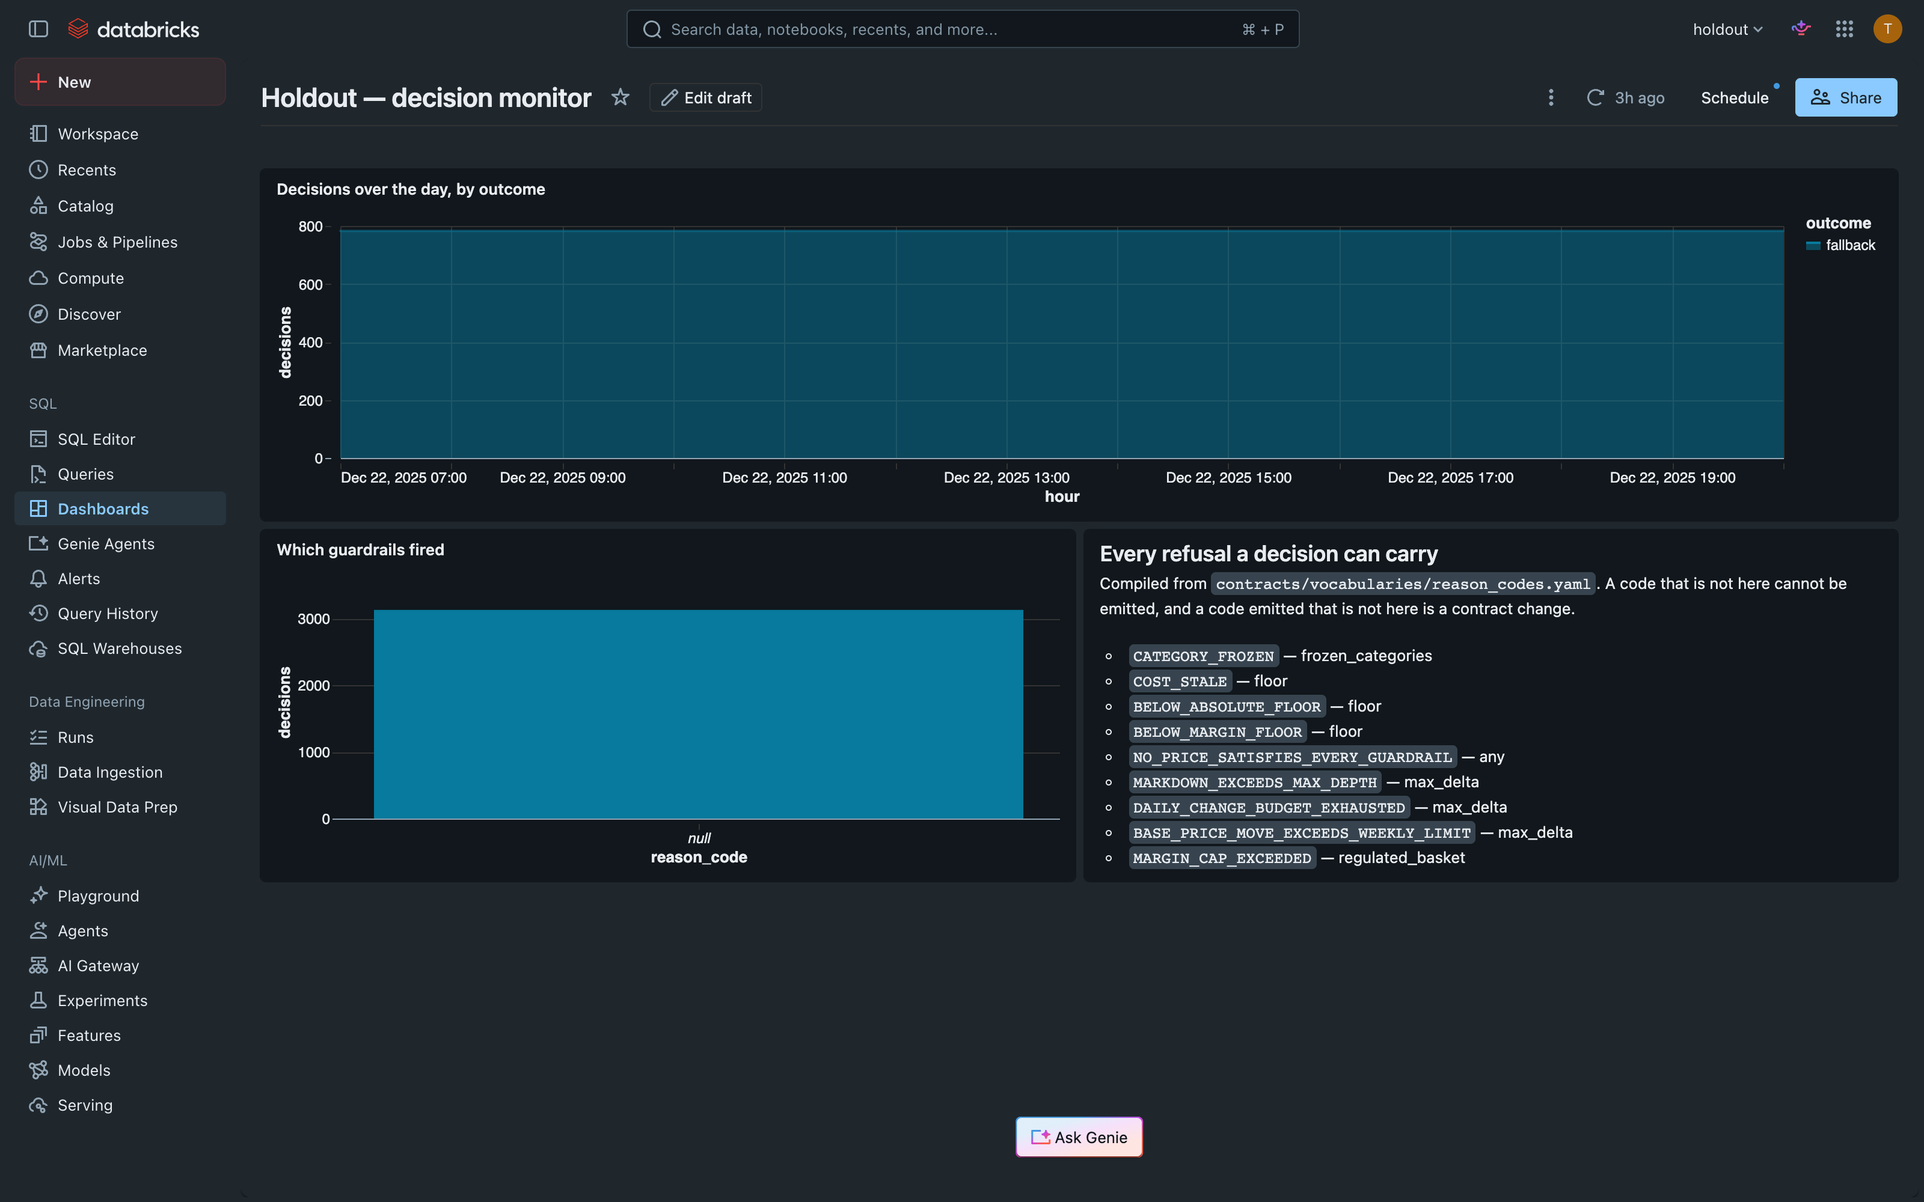
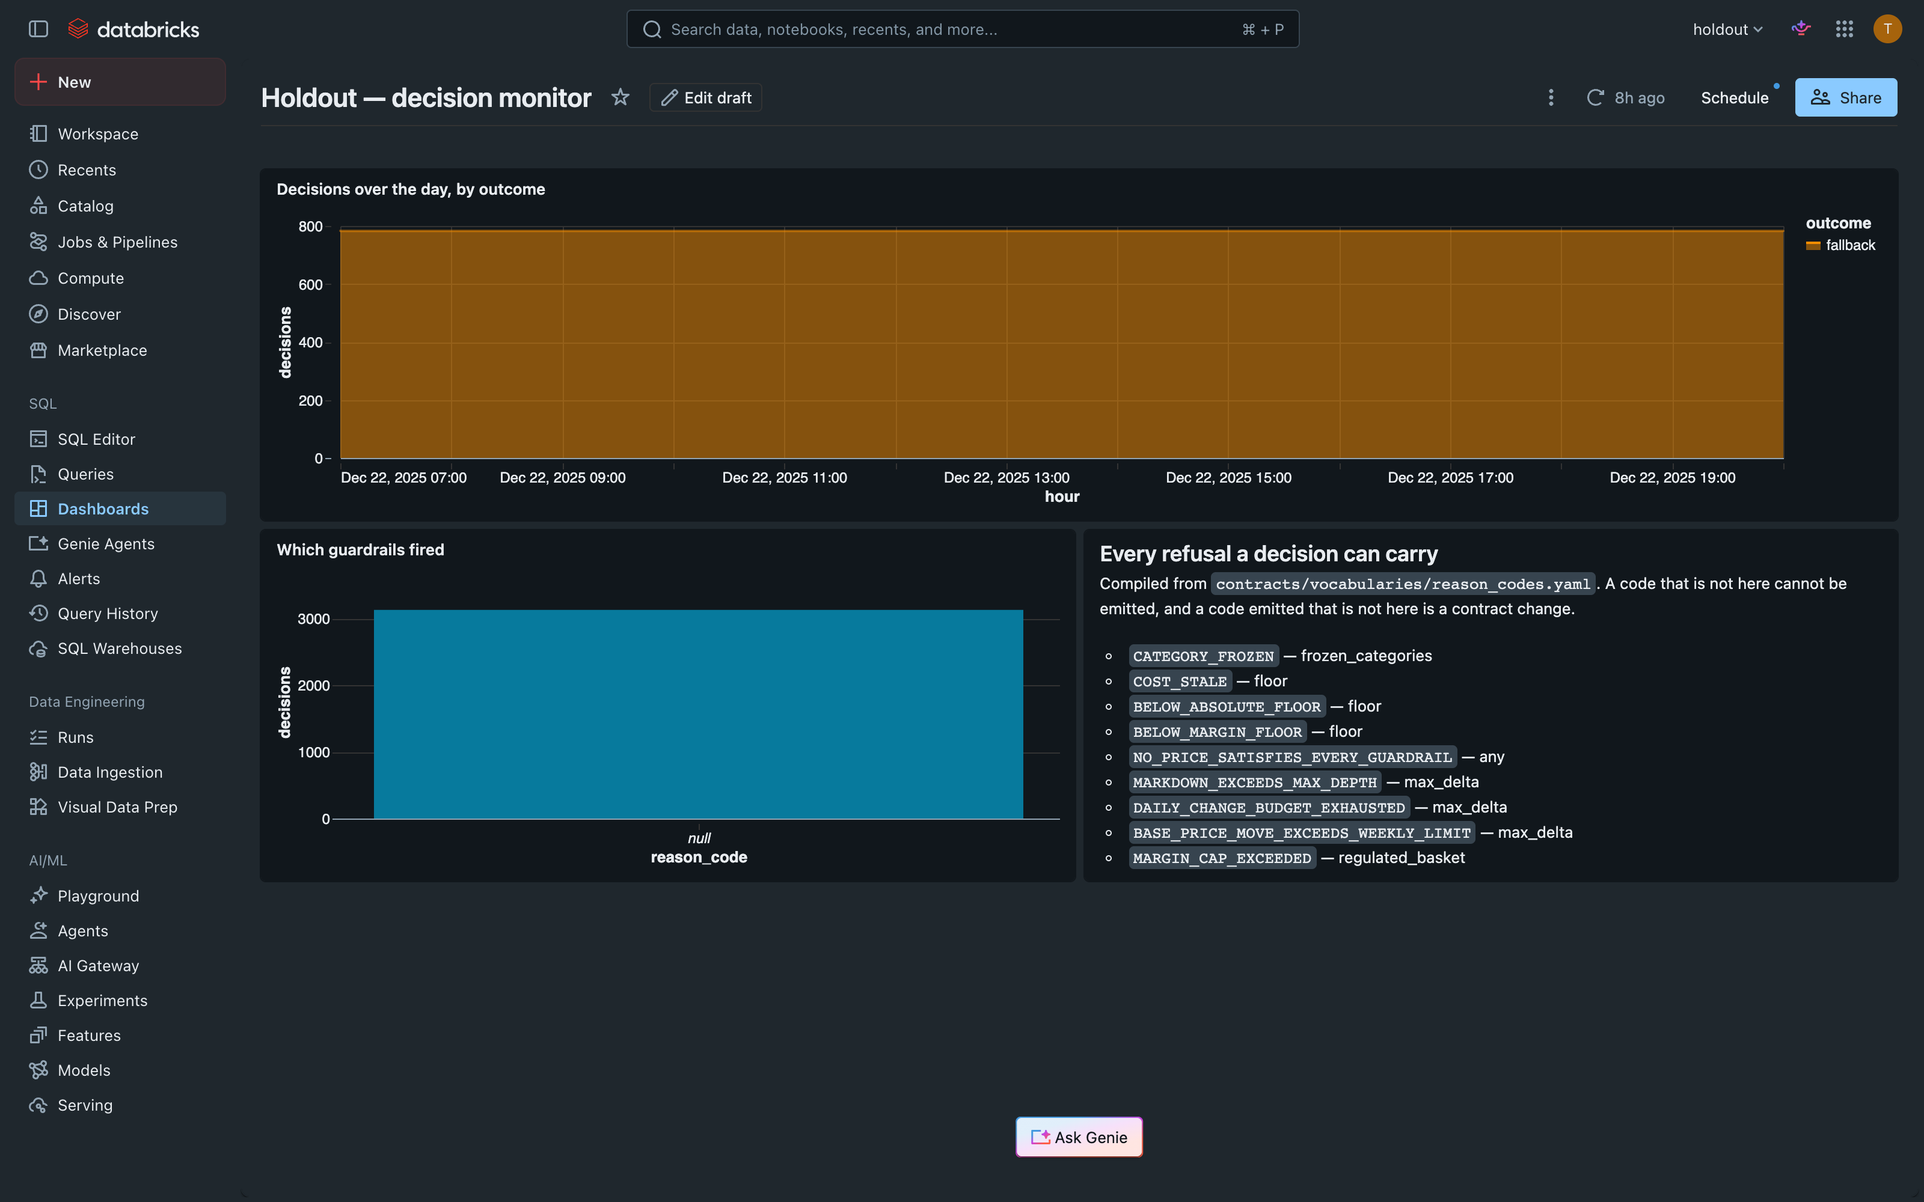
docs: the estate, photographed — thirty-two console frames beside the claims they prove
A fifth cycle, run to be seen: the readout dashboard with the number and the refusal in one
column, the decision monitor's one amber band, the door on the table and tried by a person, the
catalog's own lineage, the demo notebook executed cell by cell, Bedrock's 152 invocations, the
deploy role's trust and its Deny, the reaper and the fifty-six daily drops, CI and a dispatch as
the forge ran them. Every frame taken by a headless browser and masked; the S3 list is today's,
after destroy all left the survivor list and nothing else.

Changed region(s): [[0.1562, 0.186, 0.9375, 0.403]]

diff --git a/README.md b/README.md
@@ -50,16 +50,16 @@ is a build failure.** That is the project in one sentence.
 ## Status
 
 **Everything in this repository is proved locally, and the estate has been built, driven and torn
-down through CI four times.** The last full cycle ran on 2026-09-13, from `main`, every dispatch
+down through CI five times.** The last full cycle ran on 2026-09-15, from `main`, every dispatch
 verified against the account afterwards:
 
 | step | run | what it did |
 |---|---|---|
-| `deploy` | [34756057061](https://github.com/theofanis-tsakanikas/holdout/actions/runs/34756057061) | four Terraform layers, 135 resources, in 5 minutes |
-| `backfill` | [34756473276](https://github.com/theofanis-tsakanikas/holdout/actions/runs/34756473276) | 8 weeks of history, silver and gold, a model trained, gated, registered and served |
-| `run` | [34758751989](https://github.com/theofanis-tsakanikas/holdout/actions/runs/34758751989) | a live day with late and duplicated deliveries; both experiments read out; the endpoint asked which version answered |
-| `inspect` | [34759485334](https://github.com/theofanis-tsakanikas/holdout/actions/runs/34759485334) | every table counted, both dashboards' datasets executed, the assignment table's door tried, ten demo queries run |
-| `destroy` | [34761519867](https://github.com/theofanis-tsakanikas/holdout/actions/runs/34761519867) | 138 resources and the workspace's network removed; the account asked what is left |
+| `deploy` | [34935407546](https://github.com/theofanis-tsakanikas/holdout/actions/runs/34935407546) | four Terraform layers, in 5 minutes |
+| `backfill` | [34936332293](https://github.com/theofanis-tsakanikas/holdout/actions/runs/34936332293) | 8 weeks of history, silver and gold, a model trained, gated, registered and served — 45 minutes |
+| `run` | [34939891486](https://github.com/theofanis-tsakanikas/holdout/actions/runs/34939891486) | a live day with late and duplicated deliveries; both experiments read out; the endpoint asked which version answered |
+| `inspect` | [34961737449](https://github.com/theofanis-tsakanikas/holdout/actions/runs/34961737449) | every table counted, both dashboards' datasets executed and every widget's binding read, the assignment table's door tried, eleven demo queries run |
+| `destroy` | [34996015161](https://github.com/theofanis-tsakanikas/holdout/actions/runs/34996015161) | reverse order; the account asked what is left — the state bucket and its logs, the state key, five parameters, two roles, and nothing else of this project's |
 
 What `run` read out of `gold.readout` on the estate — one experiment sized correctly, one declared
 with a stopping rule that permits peeking:
@@ -70,6 +70,20 @@ with a number  1   ['fresh-ladder']          +12,398 cents  [+11,223, +13,571]  
 refused        1   [('fresh-ladder-peeking', 'STOPPING_RULE_PERMITS_PEEKING')]
 OK      every figure this step publishes was asserted
 ```
+
+The same two rows, on the screen the project calls its most important one — the compiled AI/BI
+dashboard, opened on the standing estate by a headless browser:
+
+<p align="center">
+  <img src="images/databricks/dashboard-experiment-readout.png" width="900" alt="The experiment readout dashboard in Databricks: four check tiles — balance, exposure, contamination, power — each naming the code it refuses with; a table titled The number, or the reason there is none, with fresh-ladder at 12397.62, ci 11223.00 to 13571.00, p 0.001, and fresh-ladder-peeking reading STOPPING_RULE_PERMITS_PEEKING in the same cell; the locked design with seed and digest; two charts over the parametrised readout reading No data"><br>
+  <sub><b>The refusal at the same size as the number</b> — one column, <code>verdict</code>, carries
+  both cases: <b>12397.62</b> with its interval and <code>p = 0.001</code> for the sized experiment,
+  and <b><code>STOPPING_RULE_PERMITS_PEEKING</code></b> for the one declared with interim looks, in the
+  same cell at the same size. The four tiles above are compiled from the closed vocabulary — a fifth
+  readout check would be a contract change that moves this screen. The two charts read the readout
+  query pinned to Delta versions and draw nothing until a viewer types the pins off the row; that is
+  a filed finding, not a hidden one.</sub>
+</p>
 
 And none of that is needed to check the thesis. The claim that separates this from a demo runs
 on a laptop, with no account, in under five minutes:
@@ -90,7 +104,14 @@ on a laptop, with no account, in under five minutes:
 **The estate is torn down.** It costs nothing while it is down, it is rebuilt from `main` by one
 dispatch, and a torn-down estate that provably ran is worth more here than one left standing —
 the whole argument of the project is that a number has to be reproducible from what was written
-down.
+down. What stood, while it stood:
+
+<table>
+<tr>
+<td width="50%"><img src="images/databricks/catalog-holdout.png" alt="Unity Catalog explorer: the holdout catalog with five schemas — bronze, gold, information_schema, landing, silver — each owned by the deploy service principal, whose id is masked"><br><sub><b>The catalog</b> — five schemas, every one owned by the service principal the workflows run as; no person owns anything here. The storage behind each is its own S3 zone, and the buckets are the ones in the frame above.</sub></td>
+<td width="50%"><img src="images/databricks/job-runs-cycle.png" alt="Jobs and Pipelines, Runs: thirteen job runs on 15 September 2026, all Succeeded, all run as holdout-deploy — baseline history into landing, bronze into silver, silver into gold, experiment design, train gate register, one live day arriving wrong, experiment readout"><br><sub><b>The cycle, as the workspace saw it</b> — thirteen runs, every one <code>holdout-deploy</code>, none started by a hand: history, bronze, silver, gold, the design, training with its gates, the live day, the readout. A job run by a person would be the finding.</sub></td>
+</tr>
+</table>
 
 <p align="center">
   <img src="images/aws/s3-buckets.png" width="900" alt="The S3 console after destroy: nine general-purpose buckets in the account, of which two belong to holdout — the Terraform state bucket and its access-log bucket, in eu-west-1. The account id is masked in the identity chip and inside the names of sibling projects' buckets"><br>
@@ -99,7 +120,7 @@ down.
   project's. The other seven belong to sibling projects and carry the account id in their names,
   which is why they are barred; the frame was taken by a headless browser signed in for fifteen
   minutes with read-only rights, and passed through <code>aws-mask</code> before it landed here.
-  Screenshots of the two AI/BI dashboards are taken on the next cycle, the same way.</sub>
+  Every console frame in this README was taken the same way, and none by hand.</sub>
 </p>
 
 ## Contents
@@ -165,6 +186,13 @@ opens, from a committed seed, and append-only at the storage layer.
   <code>source</code> is a build failure here, whatever file extension it lives in.</sub>
 </p>
 
+<table>
+<tr>
+<td width="50%"><img src="images/databricks/lineage-sales.png" alt="Unity Catalog lineage graph for holdout.silver.sales: a bronze volume, files/pos_lines, feeds silver.sales, which feeds gold.priced_sales; every node owned by holdout-deploy"><br><sub><b>Lineage the catalog drew itself</b> — the POS lines land as files in a bronze volume, become <code>silver.sales</code>, become <code>gold.priced_sales</code>. Nothing here was declared to a lineage tool; Unity Catalog read it off the jobs that ran.</sub></td>
+<td width="50%"><img src="images/databricks/lineage-decision-economics.png" alt="Lineage graph for holdout.gold.decision_economics: priced_sales feeds decision_economics, which feeds the two compiled metric tables category_margin_per_store_week_v3 and units_sold_per_store_week_v1"><br><sub><b>…and where the contract lands</b> — <code>decision_economics</code> feeds the two metric tables the contract compiled into dbt, <code>category_margin_per_store_week_v3</code> and <code>units_sold_per_store_week_v1</code>. The graph is the compile step, seen from the other end.</sub></td>
+</tr>
+</table>
+
 ---
 
 ## The seven claims, and how each is attacked
@@ -229,6 +257,13 @@ other's trade, and the lottery is drawn over what survives:
   with them withheld.</sub>
 </p>
 
+<table>
+<tr>
+<td width="50%"><img src="images/databricks/assignment-table-details.png" alt="Catalog explorer, gold.experiment_assignment, Details tab: table properties including delta.appendOnly true, 225 rows, created by the service principal"><br><sub><b>The door, on the table</b> — <code>gold.experiment_assignment</code> carries <code>delta.appendOnly = true</code>: the storage refuses an update, a delete and an overwrite, and a row appended after the seal is caught at readout by the digest. 225 rows, the two experiments' arms.</sub></td>
+<td width="50%"><img src="images/databricks/notebook-door-tried.png" alt="The demo notebook's last cell, the-door-tried: a DELETE on gold.experiment_assignment that matches no row, refused with PERMISSION_DENIED — user does not have MODIFY on the table"><br><sub><b>The door, tried</b> — the demo notebook's last cell deletes a row that does not exist, run by a person: <b><code>PERMISSION_DENIED</code></b>, because account users hold <code>SELECT</code> and nothing that writes. Run by the owner, as <code>inspect</code> runs it, the same statement is refused one door later by <code>DELTA_CANNOT_MODIFY_APPEND_ONLY</code>. Two hands, two refusals.</sub></td>
+</tr>
+</table>
+
 On the estate the two declared experiments are the demonstration: the same intervention, sized
 correctly, produces a number with an interval; declared with four interim looks and no spending
 function, it is refused at design and never assigned. The refused version of the readout screen
@@ -241,6 +276,23 @@ input — the ERP's cost ledger had been exported once, on the last day of the h
 knew every cost on that day and priced no earlier sale. A fresh-context review found it by reading
 `known_from` against the export day; [`docs/FINDINGS.md`](docs/FINDINGS.md) carries it, and the
 gate now requires both a number and a refusal so that it cannot pass on a bug again.
+
+<table>
+<tr>
+<td width="50%"><img src="images/databricks/notebook-verdict.png" alt="The demo notebook, cell the-number-or-the-reason-there-is-none run on serverless SQL: two rows, fresh-ladder with 12397.6176738036, 11223, 13571, p 0.000999, and fresh-ladder-peeking with STOPPING_RULE_PERMITS_PEEKING"><br><sub><b>The same query, typed</b> — <code>ops/demo_queries.sql</code> is deployed as a notebook and executed block by block by <code>inspect</code>, so what a viewer runs here is what the last <code>inspect</code> measured. The verdict column, raw: <code>12397.6176738036</code> beside <code>STOPPING_RULE_PERMITS_PEEKING</code>.</sub></td>
+<td width="50%"><img src="images/databricks/notebook-never-erases.png" alt="The demo notebook, cell the-readout-never-erases: every readout row with readout_at, restates and verdict, and the-door-is-append-only showing delta.appendOnly true"><br><sub><b>Doctrine rule 4, as a table</b> — <code>gold.readout</code> appends; each row names the one it restates, so a corrected readout never erases the readout it corrects. Below it, <code>show tblproperties</code> answers <code>delta.appendOnly = true</code> for the assignment table.</sub></td>
+</tr>
+</table>
+
+<p align="center">
+  <img src="images/databricks/dashboard-decision-monitor.png" width="900" alt="The decision monitor dashboard: a stacked area of decisions over the driven day, 07:00 to 19:00, one amber band labelled fallback at about 780 an hour; a bar chart of which guardrails fired with a single bar at null; and the closed vocabulary of refusal codes, compiled from the contract"><br>
+  <sub><b>Doctrine rule 2, made visible</b> — the decision monitor's stacked area over the driven
+  day is <b>one amber band</b>: every decision on this estate is the ladder's, marked
+  <code>fallback</code>, because both declared policies are deterministic and the served model
+  is not in the loop that prices the shelf. No guardrail fired, so the bar chart has one bar at
+  <code>null</code>. The screen does not hide a 100% fallback rate behind a percentage; it draws it
+  at full height.</sub>
+</p>
 
 ## The agent proposes and never approves
 
@@ -260,6 +312,15 @@ confined rather than trusted:
 
 No language model is anywhere near the decision path: too slow, too expensive at 2.4M decisions
 a day, and non-deterministic.
+
+<p align="center">
+  <img src="images/aws/bedrock-invocations.png" width="900" alt="CloudWatch metrics: AWS/Bedrock Invocations for eu.anthropic.claude-haiku-4-5, summed per day over two weeks — one point, 152 invocations, on the day the recording was made"><br>
+  <sub><b>The recording is a real model run</b> — CloudWatch's <code>AWS/Bedrock · Invocations</code>
+  for the Haiku 4.5 inference profile, summed per day: <b>152</b> calls on the day
+  <code>make record-designs</code> was run, and none since, because the eval grades the recording
+  and does not call the model on every push. The account is the one the estate runs in; there is
+  no second secret.</sub>
+</p>
 
 ## The gates are proved to bite
 
@@ -339,11 +400,18 @@ make gate-proof    # the mutation ledger: every claim target owns what is plante
 </tr>
 </table>
 
+<table>
+<tr>
+<td width="50%"><img src="images/github/ci-run.png" alt="A GitHub Actions run of ci.yml on main: discover, then a matrix of thirteen claim jobs — claim-2 in seven shards, claim-1, claim-3 claim-4, claim-5 gate-proof, claim-6, claim-2-tests silver claim-7, gold — then claim-2 combine, then claims-complete; gate and secrets alongside; all green in 29 minutes"><br><sub><b>One push, as the forge ran it</b> — <code>discover</code> reads the claim targets off the Makefile, the matrix runs them in bins sized from measured runtimes with claim 2 in seven shards, and <code>claims-complete</code> is the one context the ruleset requires. Twenty-nine minutes, on a public repository, logged out.</sub></td>
+<td width="50%"><img src="images/github/run-run.png" alt="A GitHub Actions run of run.yml: the suite was green on this sha, then drive the day — both green"><br><sub><b>A dispatch that spends</b> — <code>run</code> refuses first to do anything unless <code>ci</code> was green on the exact sha it is about to drive, then drives the day, reads out both experiments and asserts the figures against the account. The workflows that spend never run from a branch.</sub></td>
+</tr>
+</table>
+
 CI ([`ci.yml`](.github/workflows/ci.yml)) discovers every `claim-N` target from the Makefile — a
 target that exists but is never run is impossible by construction — packs them into bins sized
 from measured runtimes, shards claim 2 seven ways, and requires one aggregate check on `main` that
-fails on anything that is not `success`, including `skipped`. The count is from `make check` on 2026-09-15; CI's last run on `main` is
-[34832024668](https://github.com/theofanis-tsakanikas/holdout/actions/runs/34832024668).
+fails on anything that is not `success`, including `skipped`. The count is from `make check` on
+2026-09-15; the run in the frame above is CI's on `main` the same day.
 
 ---
 
@@ -410,6 +478,13 @@ the project tag can see. A clean cycle is on the order of 10 USD. Two budgets al
 deploy role rather than the estate. The reaper collects Databricks compute older than 48 hours
 whatever else happened.
 
+<table>
+<tr>
+<td width="50%"><img src="images/aws/reaper-lambda.png" alt="The holdout-reaper Lambda function in the AWS console: triggered by EventBridge, 128 MB, one-minute timeout, last modified minutes ago"><br><sub><b>Level 1 of the teardown guarantee</b> — a Lambda on an hourly EventBridge rule that lists the estate's serving endpoints, warehouses and Lakebase instances and deletes any older than the TTL. It depends on no workflow's control flow, deletes nothing in AWS, and has reported on every scheduled run.</sub></td>
+<td width="50%"><img src="images/aws/landing-erp-drops.png" alt="The S3 console inside the landing bucket, files/baseline-drops/: fifty-six folders named day=2025-09-01 through the end of the history, one per day"><br><sub><b>The finding, as folders</b> — the ERP's cost ledger is exported <b>once per day</b> into the landing zone. When it was exported once per slice, on the last day, every earlier sale was unpriced, the pre-period's coefficient of variation read 3.57, and the estate refused both experiments; exported daily it reads 0.12. Fifty-six folders are the difference between a refusal and a number.</sub></td>
+</tr>
+</table>
+
 ---
 
 ## Decisions
@@ -446,6 +521,13 @@ links to it and does not repeat it.
 No long-lived credentials: CI assumes one role through GitHub OIDC, scoped to three environment
 subjects, and the role carries an explicit Deny against widening its own policy or deleting the
 state. `gitleaks` is a required check. Scope, reporting and known limits: [SECURITY.md](SECURITY.md).
+
+<table>
+<tr>
+<td width="50%"><img src="images/aws/iam-deploy-role-trust.png" alt="IAM role holdout-deploy, Trust relationships: a federated principal, the account's GitHub OIDC provider, with conditions on audience, repository owner id, repository id, and subjects for the plan, deploy and destroy environments; the account id masked"><br><sub><b>No key, three subjects</b> — the deploy role trusts the GitHub OIDC provider and nothing else, and only for tokens whose subject names this repository's <code>plan</code>, <code>deploy</code> or <code>destroy</code> environment, by repository id rather than name. Nothing in this account can be assumed with a stored secret.</sub></td>
+<td width="50%"><img src="images/aws/iam-deploy-role-permissions.png" alt="IAM role holdout-deploy, Permissions: three policies — holdout-deploy-estate and holdout-deploy-never inline, holdout-deploy-state managed"><br><sub><b>And it cannot grow itself</b> — <code>holdout-deploy-never</code> is an explicit Deny on editing this role's own policies, on the state buckets and on the state key. Checked by simulating the principal, which reports <code>explicitDeny</code>.</sub></td>
+</tr>
+</table>
 
 ## License
 

diff --git a/CHANGELOG.md b/CHANGELOG.md
@@ -5,6 +5,17 @@ Dated entries, newest first. The running record is [`PLAN.md`](PLAN.md)'s *Progr
 [`docs/DECISIONS.md`](docs/DECISIONS.md); what was found wrong and where it stands is
 [`docs/FINDINGS.md`](docs/FINDINGS.md). This file is the short form.
 
+## 2026-09-15 — the screens draw, and the README shows them
+
+A fifth full cycle, run to photograph the estate. `console-shots`, a headless browser signed
+into each console — AWS by federation, Databricks and GitHub once by hand — took forty-four
+frames and masked them; thirty-two are in the README beside the claims they prove. Opening the
+dashboards found that they did not draw: `inspect` had executed every dataset and called the
+screens green while every widget with data read *Missing query "main_query"*. Three branches in a
+day — the widget grammar, the full table-column shape, the verdict rounded to the contract — and
+`inspect` now reads every widget's binding against the columns its dataset returned. Also found
+by signing in: the author had no assignment on the workspace `foundation` builds. Filed, both.
+
 ## 2026-09-15 — the README carries its evidence
 
 Fourteen images, none taken by hand. Thirteen are terminal stills rendered by promo-kit from
